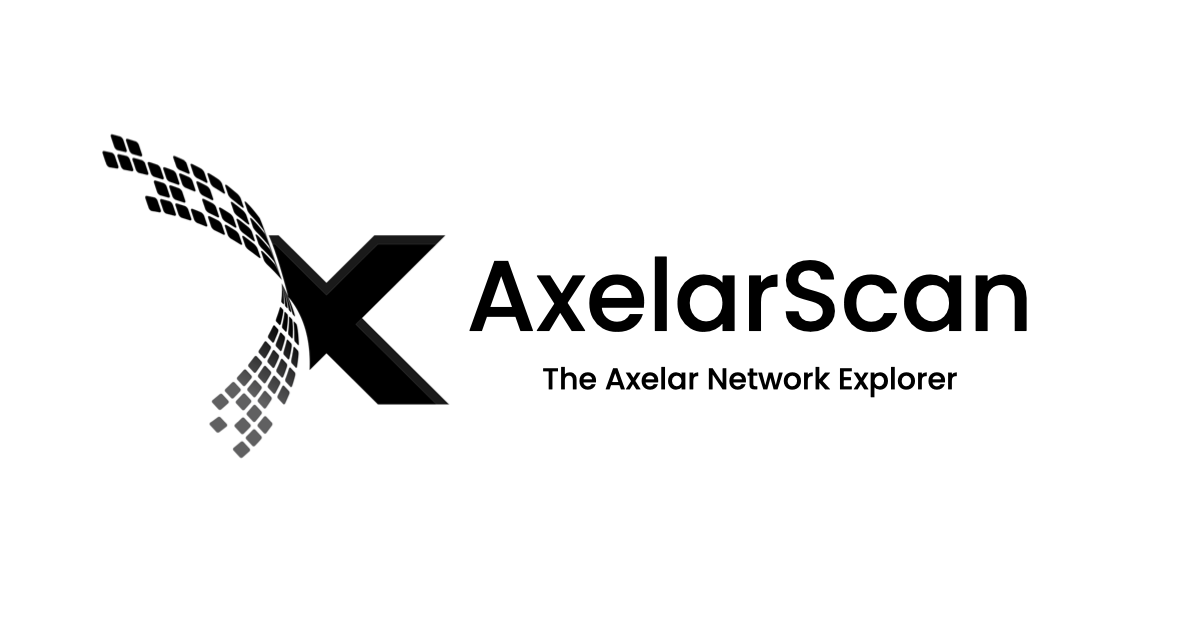
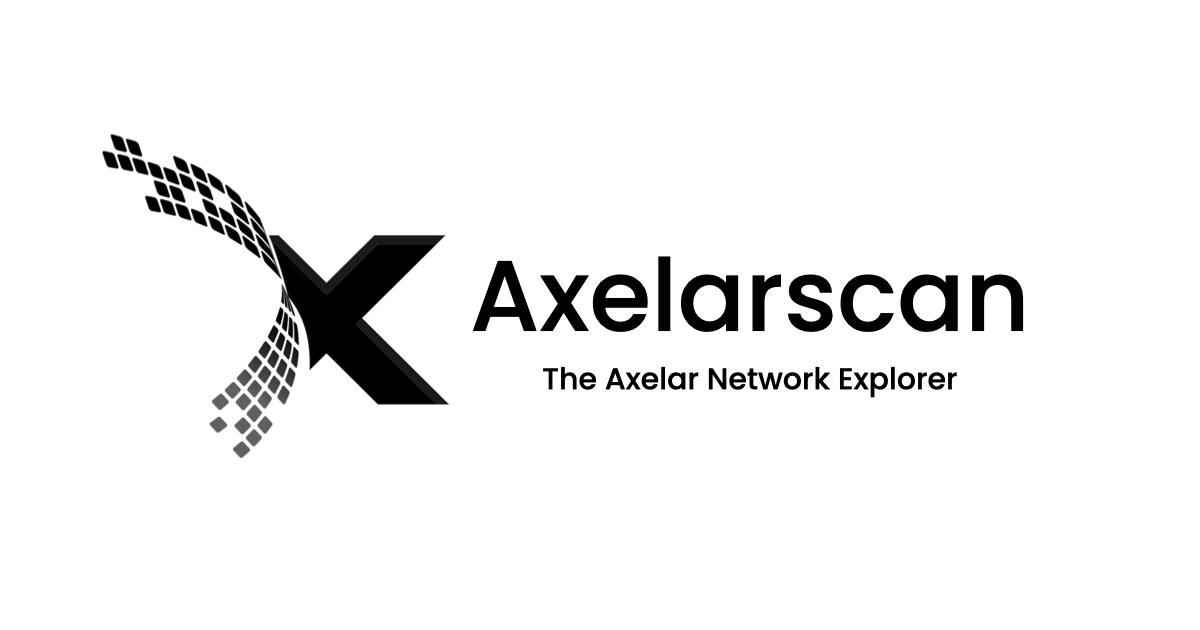
styling

Changed region(s): [[0.37, 0.3921, 0.8633, 0.5429]]

diff --git a/components/footer/index.js b/components/footer/index.js
@@ -15,8 +15,19 @@ export default function Footer() {
       </span>
       <span className="w-full md:w-1/2 lg:w-1/3 flex items-center justify-center md:justify-end text-gray-400 space-x-1">
         <span>© {moment().format('YYYY')} made with</span>
-        <FaHeart className="text-red-400 text-xl" />
-        <span>by <span className="font-semibold">{process.env.NEXT_PUBLIC_TEAM_NAME}</span> team.</span>
+        <FaHeart className="text-red-400 text-xl pr-0.5" />
+        <span>
+          {"by "}
+          <a
+            href={process.env.NEXT_PUBLIC_TEAM_URL}
+            target="_blank"
+            rel="noopener noreferrer"
+            className="text-blue-500 dark:text-white font-semibold"
+          >
+            {process.env.NEXT_PUBLIC_TEAM_NAME}
+          </a>
+          {" team."}
+        </span>
       </span>
     </div>
   )

diff --git a/components/navbar/logo/index.js b/components/navbar/logo/index.js
@@ -20,7 +20,7 @@ export default function Logo() {
             />
           </div>
           <div className="hidden sm:block lg:block xl:block">
-            <div className="normal-case text-sm font-bold">{process.env.NEXT_PUBLIC_APP_NAME}</div>
+            <div className="normal-case text-base font-semibold">{process.env.NEXT_PUBLIC_APP_NAME}</div>
             {status_data?.chain_id && (
               <div className="whitespace-nowrap font-mono text-gray-400 dark:text-gray-500 text-xs">{status_data.chain_id}</div>
             )}
